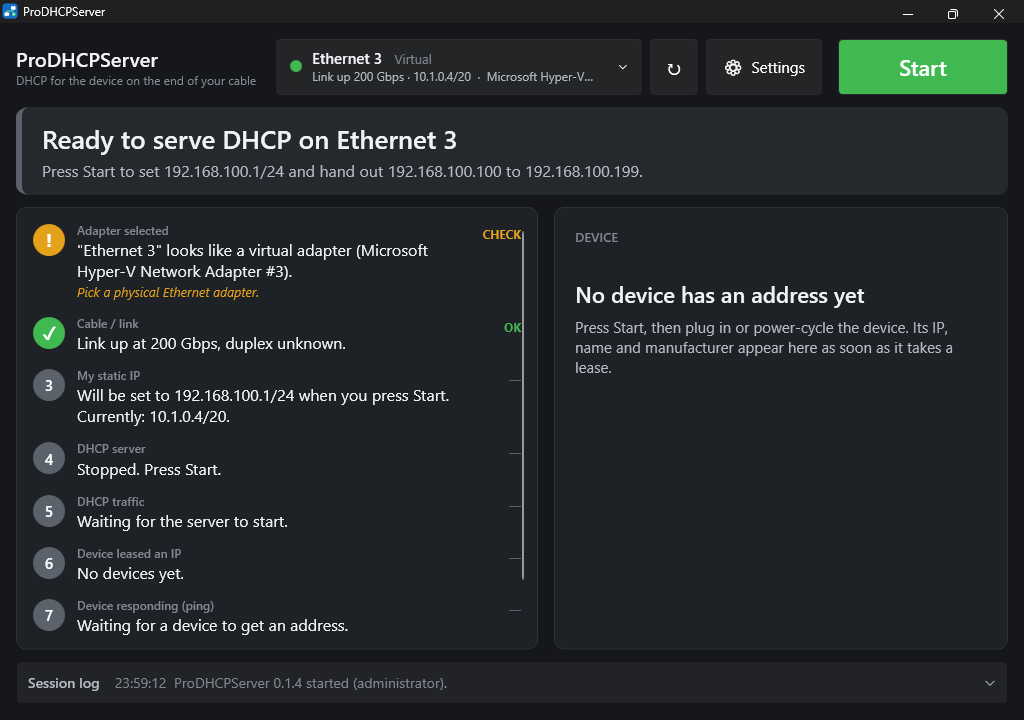
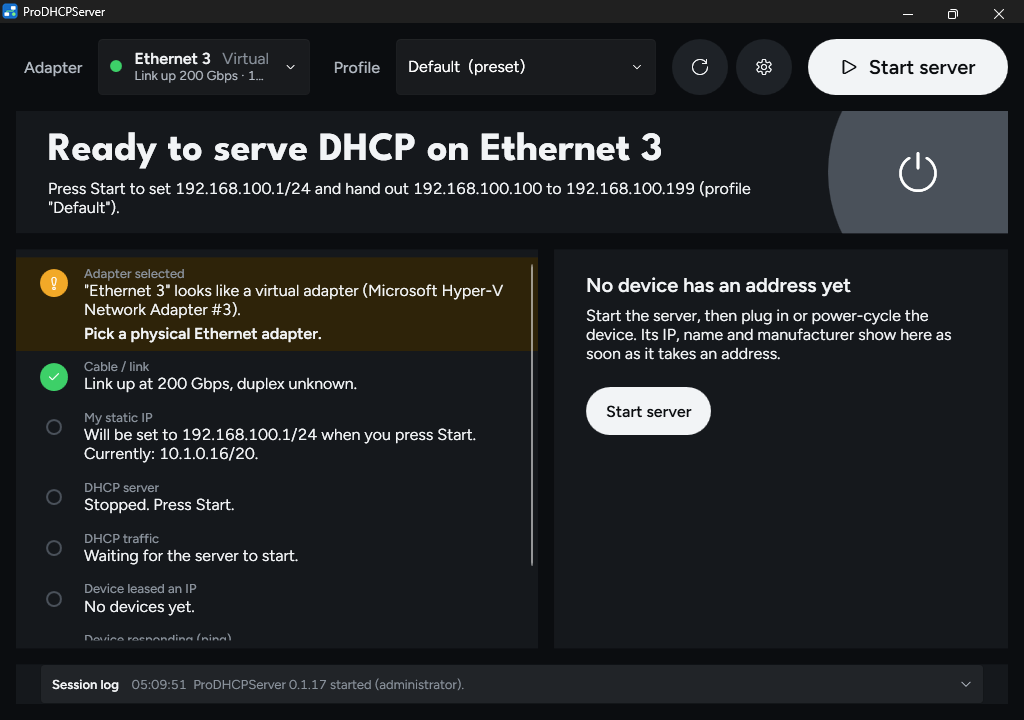
Replace the README screenshot with the current UI and add the Profiles panel
The old screenshot predated the redesign and Phase 2. Both new ones are
the CI smoke-test shots from main, cropped to the window.

Claude-Session: https://claude.ai/code/session_01ASVBnmWd9goyznUY155q4S

diff --git a/README.md b/README.md
@@ -41,6 +41,8 @@ Most AV kit ships set to DHCP, and on a bench or a fresh site there's usually no
 
   Each preset's pool leaves the documented factory addresses free. Presets can't be changed: duplicate one to make your own.
 
+![The Profiles panel with the Default preset and links to the manufacturers' documentation](docs/images/profiles-panel-dark.png)
+
 **Default profile:** server IP `192.168.100.1/24`, addresses `192.168.100.100` to `192.168.100.199`, 60-minute leases. Make your own profile under **Profiles** (the gear button) to change any of these.
 
 ## Download and run
@@ -120,7 +122,7 @@ dotnet publish src/ProDHCPServer.App -c Release -r win-x64 -o publish
 | `src/ProDHCPServer.Windows` | Windows specifics: adapter reading and changes, the UDP 67 socket, ARP entries, firewall rule, other-server probe, ping and port checks. |
 | `src/ProDHCPServer.App` | The WPF app: UI, elevation prompt, crash handling. |
 | `tests/` | Core unit tests (run anywhere) and Windows integration tests (run on the Windows CI runner and never change adapter settings). |
-| `docs/` | Hardware test checklists for each phase, and the screenshot used in this README. |
+| `docs/` | Hardware test checklists for each phase, and the screenshots used in this README (taken by the CI smoke test). |
 | `tools/` | CI smoke test (launches the app and takes screenshots) and the manufacturer list updater (`python3 tools/update-oui.py`). |
 
 **CI.** Every push and pull request runs the **Build and test** workflow on Windows: build, Core and Windows tests, publish the exe, and a smoke test that screenshots the app in light and dark mode. The exe and screenshots are uploaded as run artifacts.
